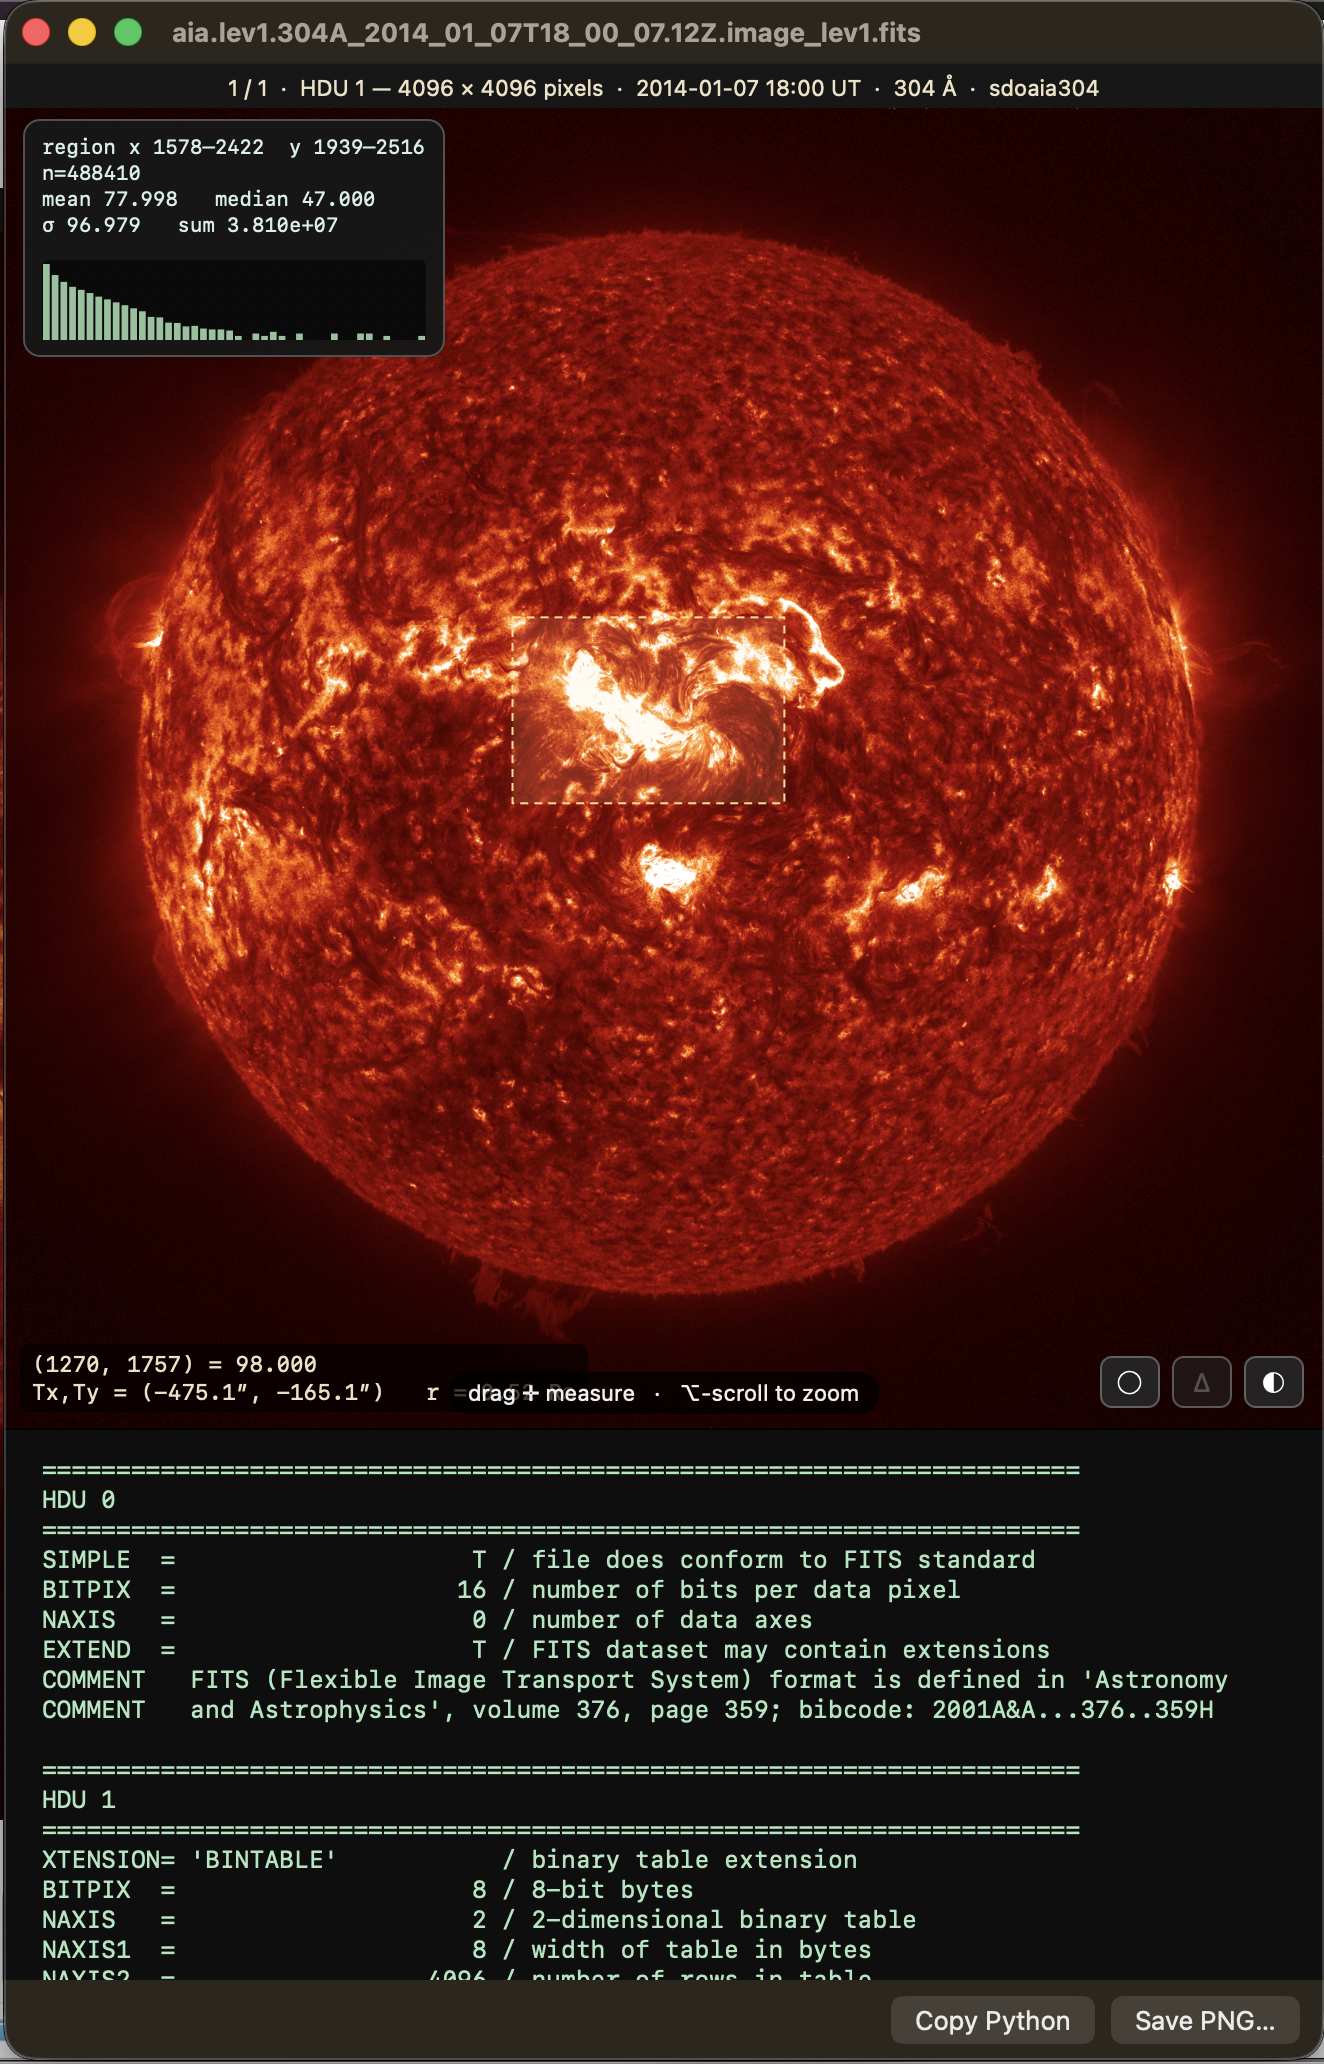
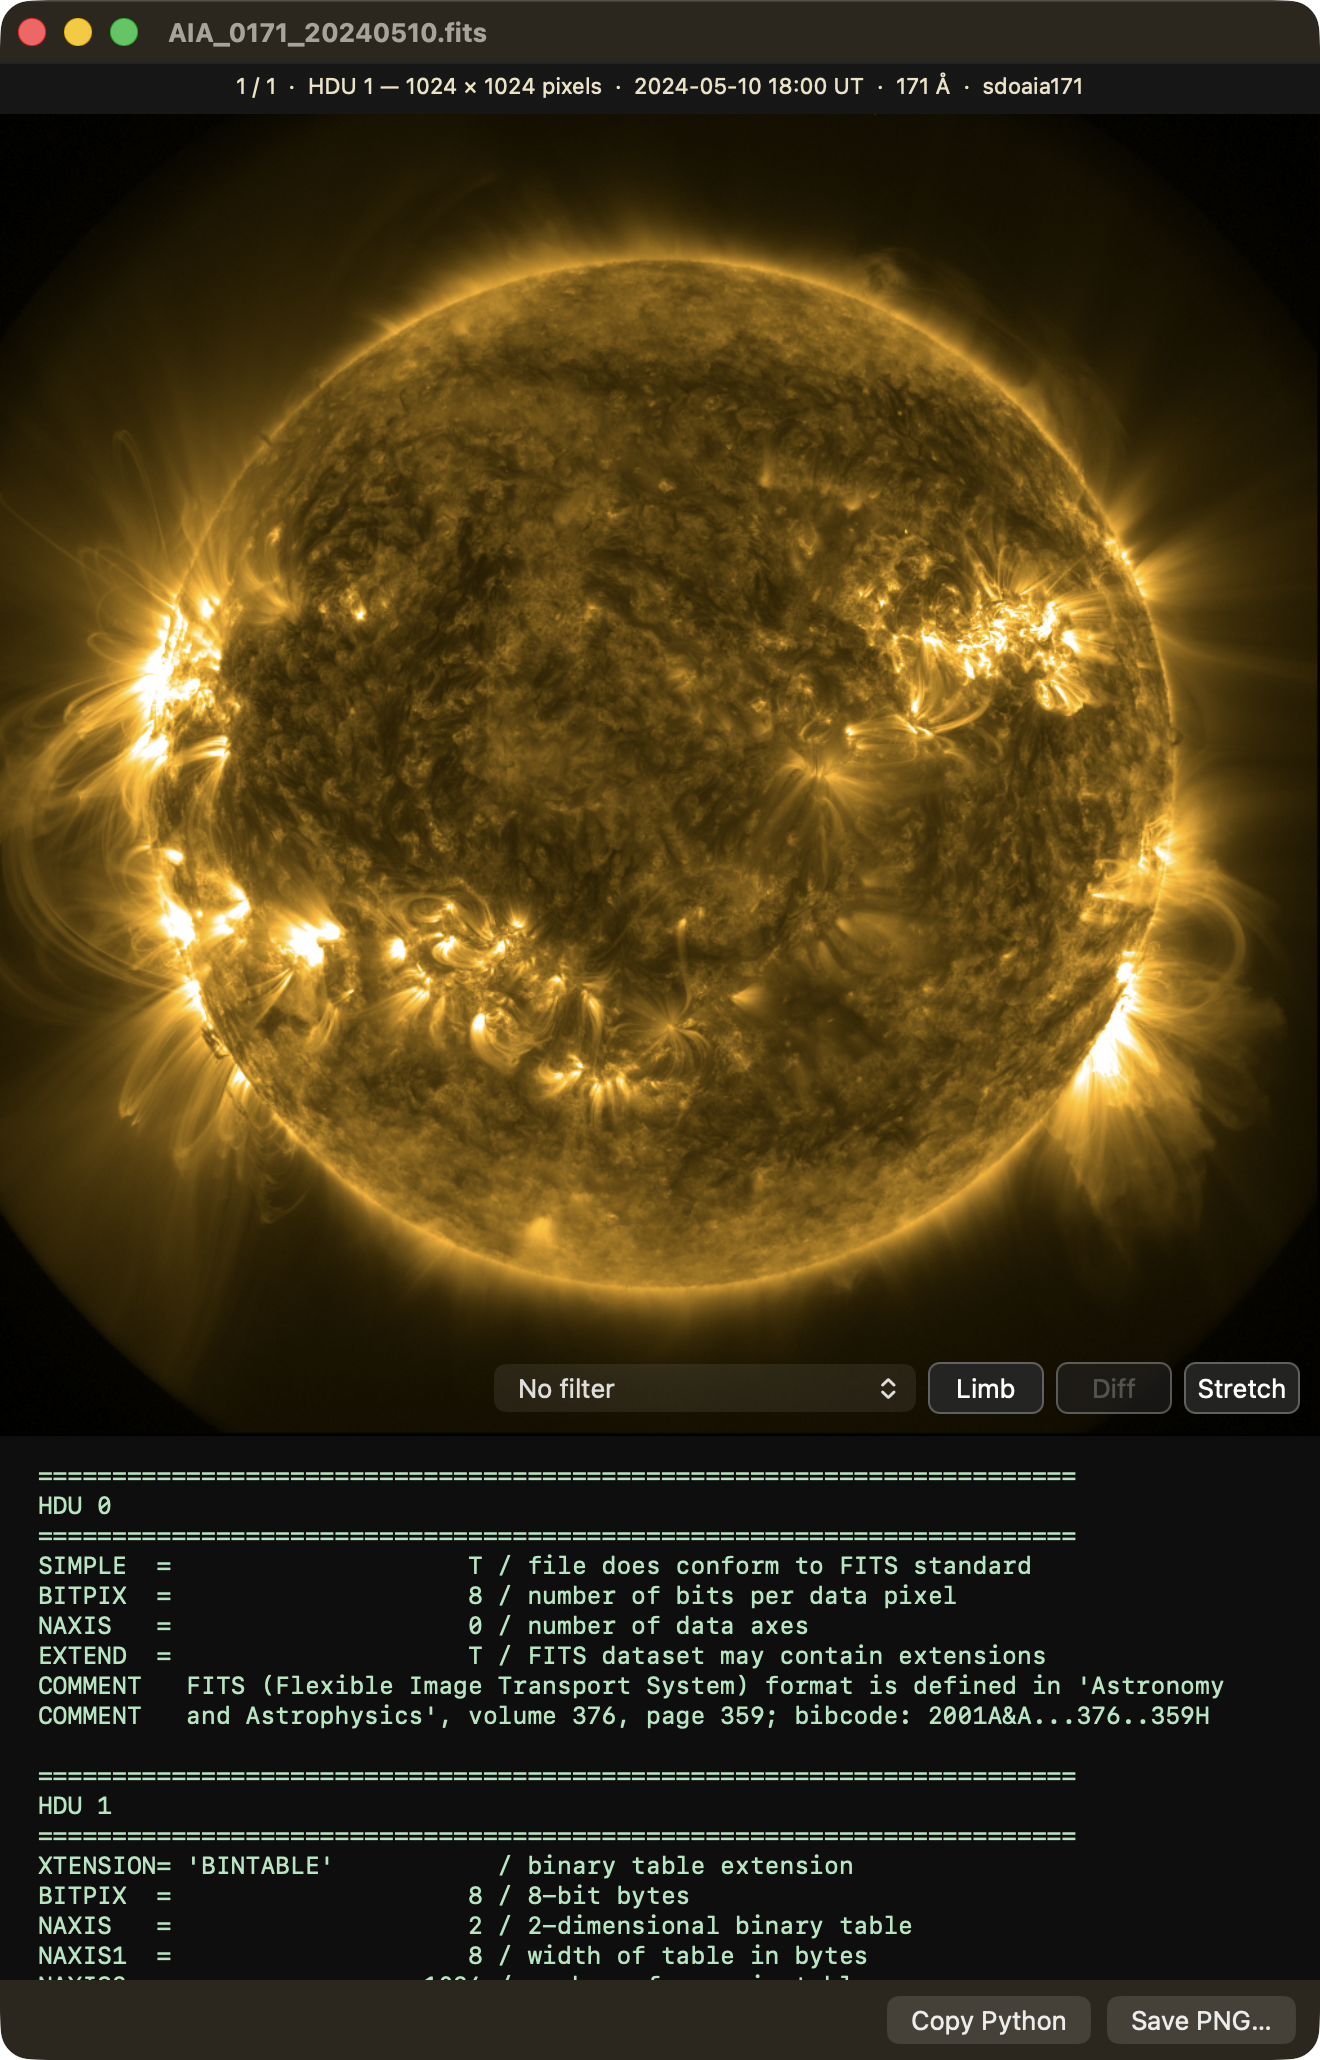
docs: refresh screenshots to build 6 (redesigned window, text toolbar)
The README shots were captured pre-1.2(6) and showed the old UI:
- settings.png -> the redesigned "HelioFITS Extension" window (identity +
  "How it works" + capabilities + buttons)
- viewer.png -> AIA 171 with the Limb/Diff/Stretch text toolbar + header +
  Copy-Python
- preview-quicklook.png -> a live Quick Look preview with the readout
  (value, Tx/Ty, R_sun), the RHEF filter, and the toolbar
- interactive-stats.png -> the solar limb + a region selection

colormaps/spotlight-metadata/before-after unchanged (thumbnails and metadata
didn't change). Also ignore a stray .venv/.

diff --git a/README.md b/README.md
@@ -54,8 +54,8 @@ the way a folder of photos is.
 
 <table>
 <tr>
-<td width="50%"><img src="docs/preview-quicklook.png" alt="A Quick Look preview of a solar image"/></td>
-<td width="50%"><img src="docs/interactive-stats.png" alt="The preview with the solar limb drawn and region statistics shown"/></td>
+<td width="50%"><img src="docs/preview-quicklook.png" alt="A Quick Look preview of an AIA image with the pixel value and coordinate readout, the RHEF filter, and the Limb/Diff/Stretch controls"/></td>
+<td width="50%"><img src="docs/interactive-stats.png" alt="The preview with the solar limb drawn and a region selected for statistics"/></td>
 </tr>
 </table>
 